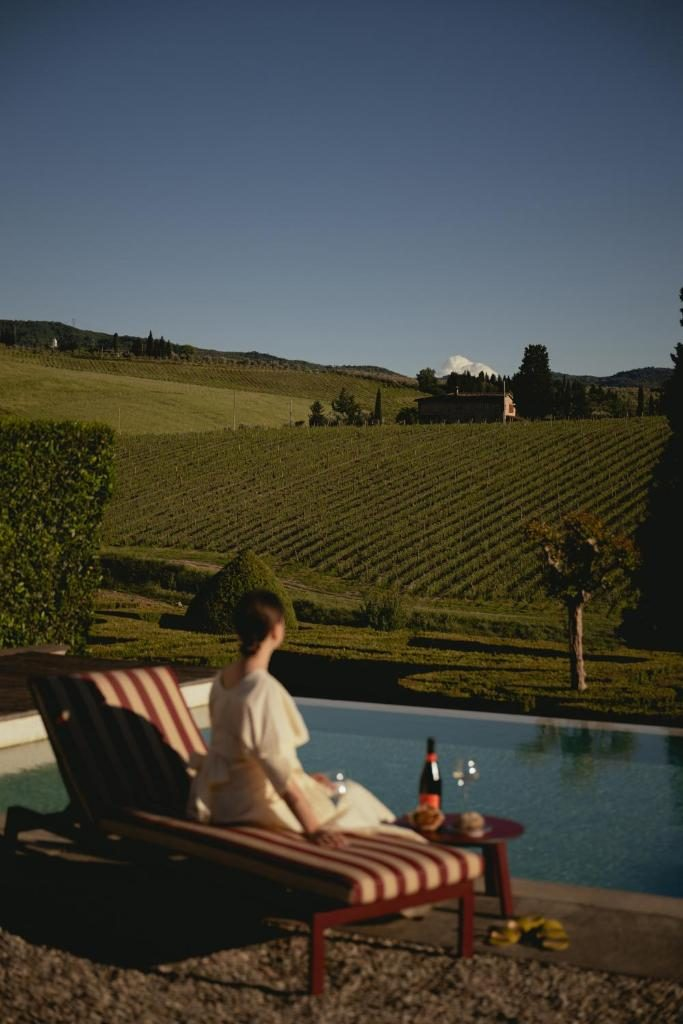
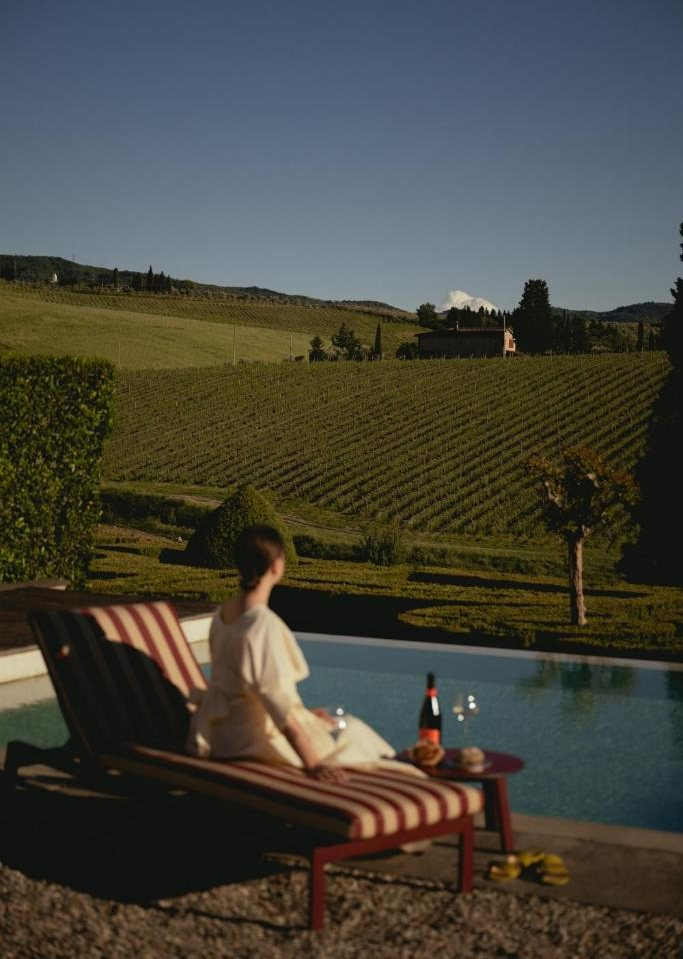
Casa Ruffino: foto ritagliate in verticale come Connection Business, carosello nella stessa colonna con testo attorno
Claude-Session: https://claude.ai/code/session_014GWkhXfhGDuHfVA4Zt8Xy1

Changed region(s): [[0.0, 0.2419, 1.0, 0.9677], [0.0, 0.9072, 0.123, 0.9677], [0.8609, 0.9374, 0.8917, 0.9677]]

diff --git a/app/[locale]/anointed-world/page.tsx b/app/[locale]/anointed-world/page.tsx
@@ -53,9 +53,9 @@ const CONTENT = {
         link: 'https://equipherconference.com/italy/',
         gallery: [
           { src: '/images/about/casa-ruffino-1.jpg', alt: 'A room at Casa Ruffino with two paper lamps and a window overlooking the garden and cypress trees' },
-          { src: '/images/about/casa-ruffino-2.jpg', alt: 'A guest relaxing on a lounger by the pool at Casa Ruffino, with vineyards in the background', position: '50% 62%' },
+          { src: '/images/about/casa-ruffino-2.jpg', alt: 'A guest relaxing on a lounger by the pool at Casa Ruffino, with vineyards in the background' },
           { src: '/images/about/casa-ruffino-3.jpg', alt: 'The pool and Italian garden at Casa Ruffino, surrounded by vineyards' },
-          { src: '/images/about/casa-ruffino-4.jpg', alt: 'Evening dinner in the courtyard of Casa Ruffino, lit by candles and string lights', position: '50% 62%' },
+          { src: '/images/about/casa-ruffino-4.jpg', alt: 'Evening dinner in the courtyard of Casa Ruffino, lit by candles and string lights' },
         ],
       },
     ] as EventItem[],
@@ -100,9 +100,9 @@ const CONTENT = {
         link: 'https://equipherconference.com/italy/',
         gallery: [
           { src: '/images/about/casa-ruffino-1.jpg', alt: 'Una stanza di Casa Ruffino con due lampade di carta e una finestra sul giardino e sui cipressi' },
-          { src: '/images/about/casa-ruffino-2.jpg', alt: 'Un\'ospite su una sdraio a bordo piscina a Casa Ruffino, con le vigne sullo sfondo', position: '50% 62%' },
+          { src: '/images/about/casa-ruffino-2.jpg', alt: 'Un\'ospite su una sdraio a bordo piscina a Casa Ruffino, con le vigne sullo sfondo' },
           { src: '/images/about/casa-ruffino-3.jpg', alt: 'La piscina e il giardino all\'italiana di Casa Ruffino, circondati dalle vigne' },
-          { src: '/images/about/casa-ruffino-4.jpg', alt: 'Cena serale nella corte di Casa Ruffino, illuminata da candele e luci', position: '50% 62%' },
+          { src: '/images/about/casa-ruffino-4.jpg', alt: 'Cena serale nella corte di Casa Ruffino, illuminata da candele e luci' },
         ],
       },
     ] as EventItem[],
@@ -263,12 +263,12 @@ function EventCard({ ev, learnMore }: { ev: EventItem; learnMore: string }) {
         position: 'absolute', top: 0, left: 0, right: 0, height: '1px',
         background: 'linear-gradient(90deg, transparent, rgba(255,255,255,0.9), transparent)',
       }} />
-      {ev.gallery && (
-        <div style={{ marginBottom: 'clamp(1.5rem, 3vw, 2.25rem)' }}>
-          <PhotoCarousel foto={ev.gallery} prev={prevLabel} next={nextLabel} />
-        </div>
-      )}
       <div style={{ display: 'flow-root' }}>
+        {ev.gallery && (
+          <figure className="aw-ev-fig" style={{ margin: '0 clamp(1.5rem, 3vw, 2.75rem) 1.25rem 0', float: 'left', width: 'min(40%, 340px)' }}>
+            <PhotoCarousel foto={ev.gallery} prev={prevLabel} next={nextLabel} ratio="1282 / 1800" sizes="(max-width: 767px) 90vw, 340px" />
+          </figure>
+        )}
         {ev.image && (
           <figure className="aw-ev-fig" style={{ margin: '0 clamp(1.5rem, 3vw, 2.75rem) 1.25rem 0', float: 'left', width: 'min(40%, 340px)' }}>
             <Image src={ev.image} alt={ev.imageAlt || ''} width={1282} height={1800} sizes="(max-width: 767px) 90vw, 320px"

diff --git a/components/PhotoCarousel.tsx b/components/PhotoCarousel.tsx
@@ -8,8 +8,8 @@ export interface Foto { src: string; alt: string; position?: string }
 // Carosello discreto: scorre da solo (si ferma al passaggio del mouse, con il focus e a scheda
 // nascosta; niente autoplay se l'utente preferisce meno animazioni), frecce sottili che appaiono
 // al passaggio, puntini piccoli, swipe su touch. Scorrimento continuo con clone della prima foto.
-export default function PhotoCarousel({ foto, prev, next, intervalMs = 5500 }: {
-  foto: Foto[]; prev: string; next: string; intervalMs?: number
+export default function PhotoCarousel({ foto, prev, next, intervalMs = 5500, ratio = '4 / 3', sizes = '(max-width: 767px) 90vw, 760px' }: {
+  foto: Foto[]; prev: string; next: string; intervalMs?: number; ratio?: string; sizes?: string
 }) {
   const n = foto.length
   const slides = [...foto, foto[0]]
@@ -60,8 +60,8 @@ export default function PhotoCarousel({ foto, prev, next, intervalMs = 5500 }: {
         onTransitionEnd={() => { if (i === n) { setAnim(false); setI(0) } }}
         style={{ display: 'flex', transform: `translateX(-${i * 100}%)`, transition: anim ? 'transform 0.7s cubic-bezier(0.22,0.8,0.24,1)' : 'none' }}>
         {slides.map((f, k) => (
-          <div key={k} aria-hidden={k !== attivo && !(k === n && attivo === 0)} style={{ position: 'relative', flex: '0 0 100%', aspectRatio: '4 / 3' }}>
-            <Image src={f.src} alt={k === n ? '' : f.alt} fill sizes="(max-width: 767px) 90vw, 760px"
+          <div key={k} aria-hidden={k !== attivo && !(k === n && attivo === 0)} style={{ position: 'relative', flex: '0 0 100%', aspectRatio: ratio }}>
+            <Image src={f.src} alt={k === n ? '' : f.alt} fill sizes={sizes}
               style={{ objectFit: 'cover', objectPosition: f.position || '50% 50%' }} />
           </div>
         ))}
